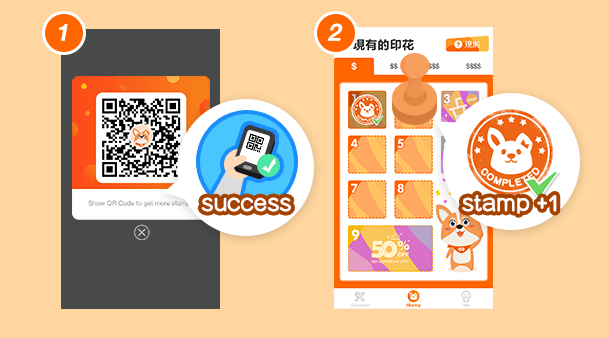
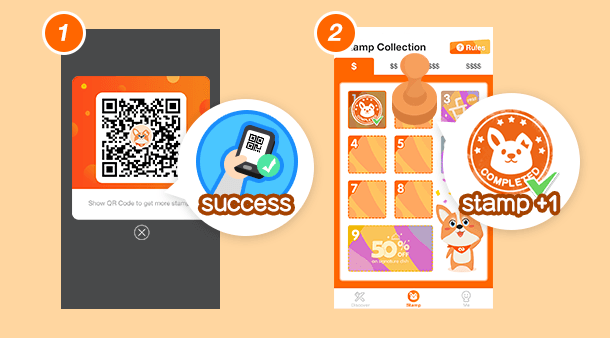
'update'

Changed region(s): [[0.5607, 0.0888, 0.8098, 0.1775]]

diff --git a/recourse/stampcn.html b/recourse/stampcn.html
@@ -14,15 +14,17 @@
         background:rgb(255,102,0);
     }
     .banner{
-        font-family: MYuenHK;
         padding: 0.29rem 0.19rem;
         box-sizing: border-box;
-        font-size:0.4rem;
-        color:rgb(255,255,255);
         width:100%;
         height:1.5rem;
         background:url('./img/bg_3.png') no-repeat;
         background-size: contain;
+    }
+    .banner img{
+        float:left;
+        width:0.76rem;
+        height:auto;
     }
     .radiusContain{
         width:100%;
@@ -115,7 +117,7 @@
     }
     .attentionTitle{
         font-size:0.13rem;
-        margin-bottom: 0.1rem;
+        margin-bottom: 0.02rem;
     }
     .stipulation{
         width:100%;
@@ -129,7 +131,7 @@
 <body>
     <div id="app">
         <div class="banner">
-            <b>印花</b>
+            <img src="./img/title_word_stamp.png" alt="">
         </div>
         <div class="radiusContain">
             <div class="itemuniform">

diff --git a/recourse/stampen.html b/recourse/stampen.html
@@ -23,6 +23,7 @@
         height:1.5rem;
         background:url('./img/bg_3.png') no-repeat;
         background-size: contain;
+        letter-spacing:1px;
     }
     .radiusContain{
         width:100%;
@@ -115,7 +116,7 @@
     }
     .attentionTitle{
         font-size:0.13rem;
-        margin-bottom: 0.1rem;
+        margin-bottom: 0.02rem;
     }
     .stipulation{
         width:100%;
@@ -141,7 +142,7 @@
                     Show restaurant staff “My QR Code” After scanning by restaurant staff, a Stamp will be automatically added to Stamp page
                 </div>     
                 <div class="dishImg">
-                    <img src="./img/stamp_p1.png" alt="">
+                    <img src="./img/stamp_p1_en.png" alt="">
                 </div>
             </div>
             <div class="itemuniform">

diff --git a/recourse/introductioncn.html b/recourse/introductioncn.html
@@ -14,15 +14,17 @@
         background:rgb(255,102,0);
     }
     .banner{
-        font-family: MYuenHK;
         padding: 0.29rem 0.19rem;
         box-sizing: border-box;
-        font-size:0.4rem;
-        color:rgb(255,255,255);
         width:100%;
         height:1.5rem;
         background:url('./img/bg_1.png') no-repeat;
         background-size: contain;
+    }
+    .banner img{
+        float:left;
+        width:1.56rem;
+        height:auto;
     }
     .radiusContain{
         width:100%;
@@ -60,7 +62,7 @@
 <body>
     <div id="app">
         <div class="banner">
-            <b>基本介紹</b>
+           <img src="./img/title_word_about.png" alt="">
         </div>
         <div class="radiusContain">
             <div class="itemuniform">

diff --git a/recourse/accountcn.html b/recourse/accountcn.html
@@ -14,15 +14,17 @@
         background:rgb(255,102,0);
     }
     .banner{
-        font-family: MYuenHK;
         padding: 0.29rem 0.19rem;
         box-sizing: border-box;
-        font-size:0.4rem;
-        color:rgb(255,255,255);
         width:100%;
         height:1.5rem;
         background:url('./img/bg_2.png') no-repeat;
         background-size: contain;
+    }
+    .banner img{
+        float:left;
+        width:0.76rem;
+        height:auto;
     }
     .radiusContain{
         width:100%;
@@ -72,7 +74,7 @@
 <body>
     <div id="app">
         <div class="banner">
-            <b>帳戶</b>
+            <img src="./img/title_word_account.png" alt="">
         </div>
         <div class="radiusContain">
             <div class="itemuniform">

diff --git a/recourse/foodcriticcn.html b/recourse/foodcriticcn.html
@@ -14,15 +14,17 @@
         background:rgb(255,102,0);
     }
     .banner{
-        font-family: MYuenHK;
         padding: 0.29rem 0.19rem;
         box-sizing: border-box;
-        font-size:0.4rem;
-        color:rgb(255,255,255);
         width:100%;
         height:1.5rem;
         background:url('./img/bg_4.png') no-repeat;
         background-size: contain;
+    }
+    .banner img{
+        float:left;
+        width:0.76rem;
+        height:auto;
     }
     .radiusContain{
         width:100%;
@@ -72,7 +74,7 @@
 <body>
     <div id="app">
         <div class="banner">
-            <b>食評</b>
+            <img src="./img/title_word_review.png" alt="">
         </div>
         <div class="radiusContain">
             <div class="itemuniform">

diff --git a/recourse/accounten.html b/recourse/accounten.html
@@ -23,6 +23,7 @@
         height:1.5rem;
         background:url('./img/bg_2.png') no-repeat;
         background-size: contain;
+        letter-spacing:1px;
     }
     .radiusContain{
         width:100%;
@@ -72,7 +73,7 @@
 <body>
     <div id="app">
         <div class="banner">
-            <b>帳戶</b>
+            <b>My<br/>account</b>
         </div>
         <div class="radiusContain">
             <div class="itemuniform">

diff --git a/recourse/foodcriticen.html b/recourse/foodcriticen.html
@@ -17,12 +17,13 @@
         font-family: Arial Rounded MT Bold;
         padding: 0.29rem 0.19rem;
         box-sizing: border-box;
-        font-size:0.38rem;
+        font-size:0.37rem;
         color:rgb(255,255,255);
         width:100%;
         height:1.5rem;
         background:url('./img/bg_4.png') no-repeat;
         background-size: contain;
+        letter-spacing:1px;
     }
     .radiusContain{
         width:100%;

diff --git a/recourse/introductionen.html b/recourse/introductionen.html
@@ -23,6 +23,7 @@
         height:1.5rem;
         background:url('./img/bg_1.png') no-repeat;
         background-size: contain;
+        letter-spacing:1px;
     }
     .radiusContain{
         width:100%;
